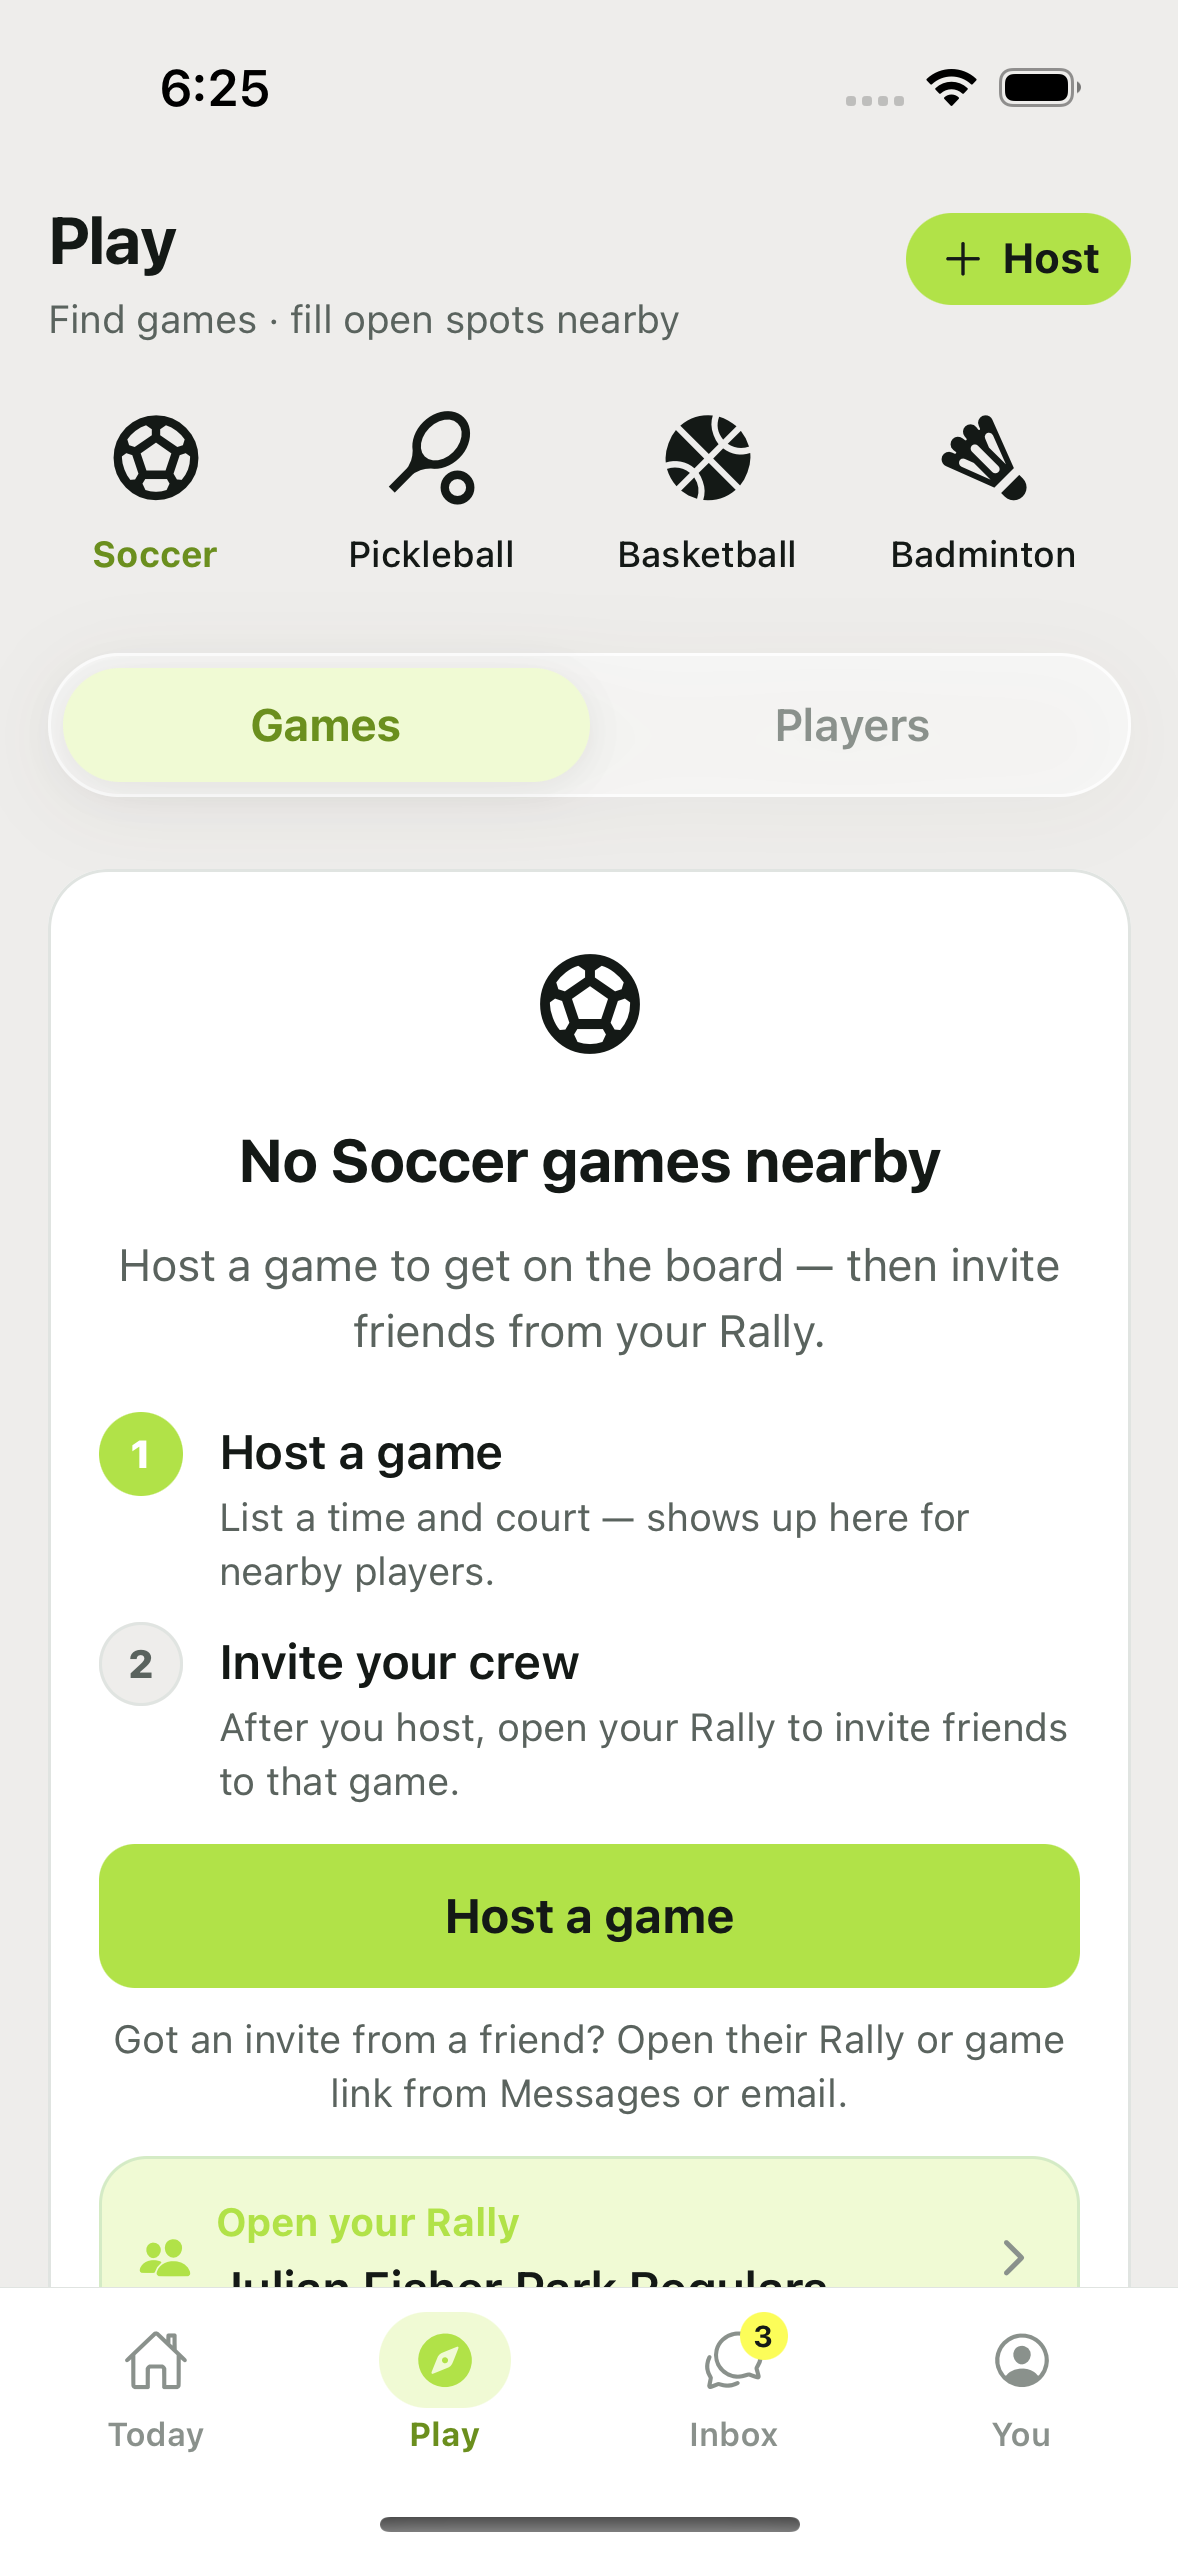
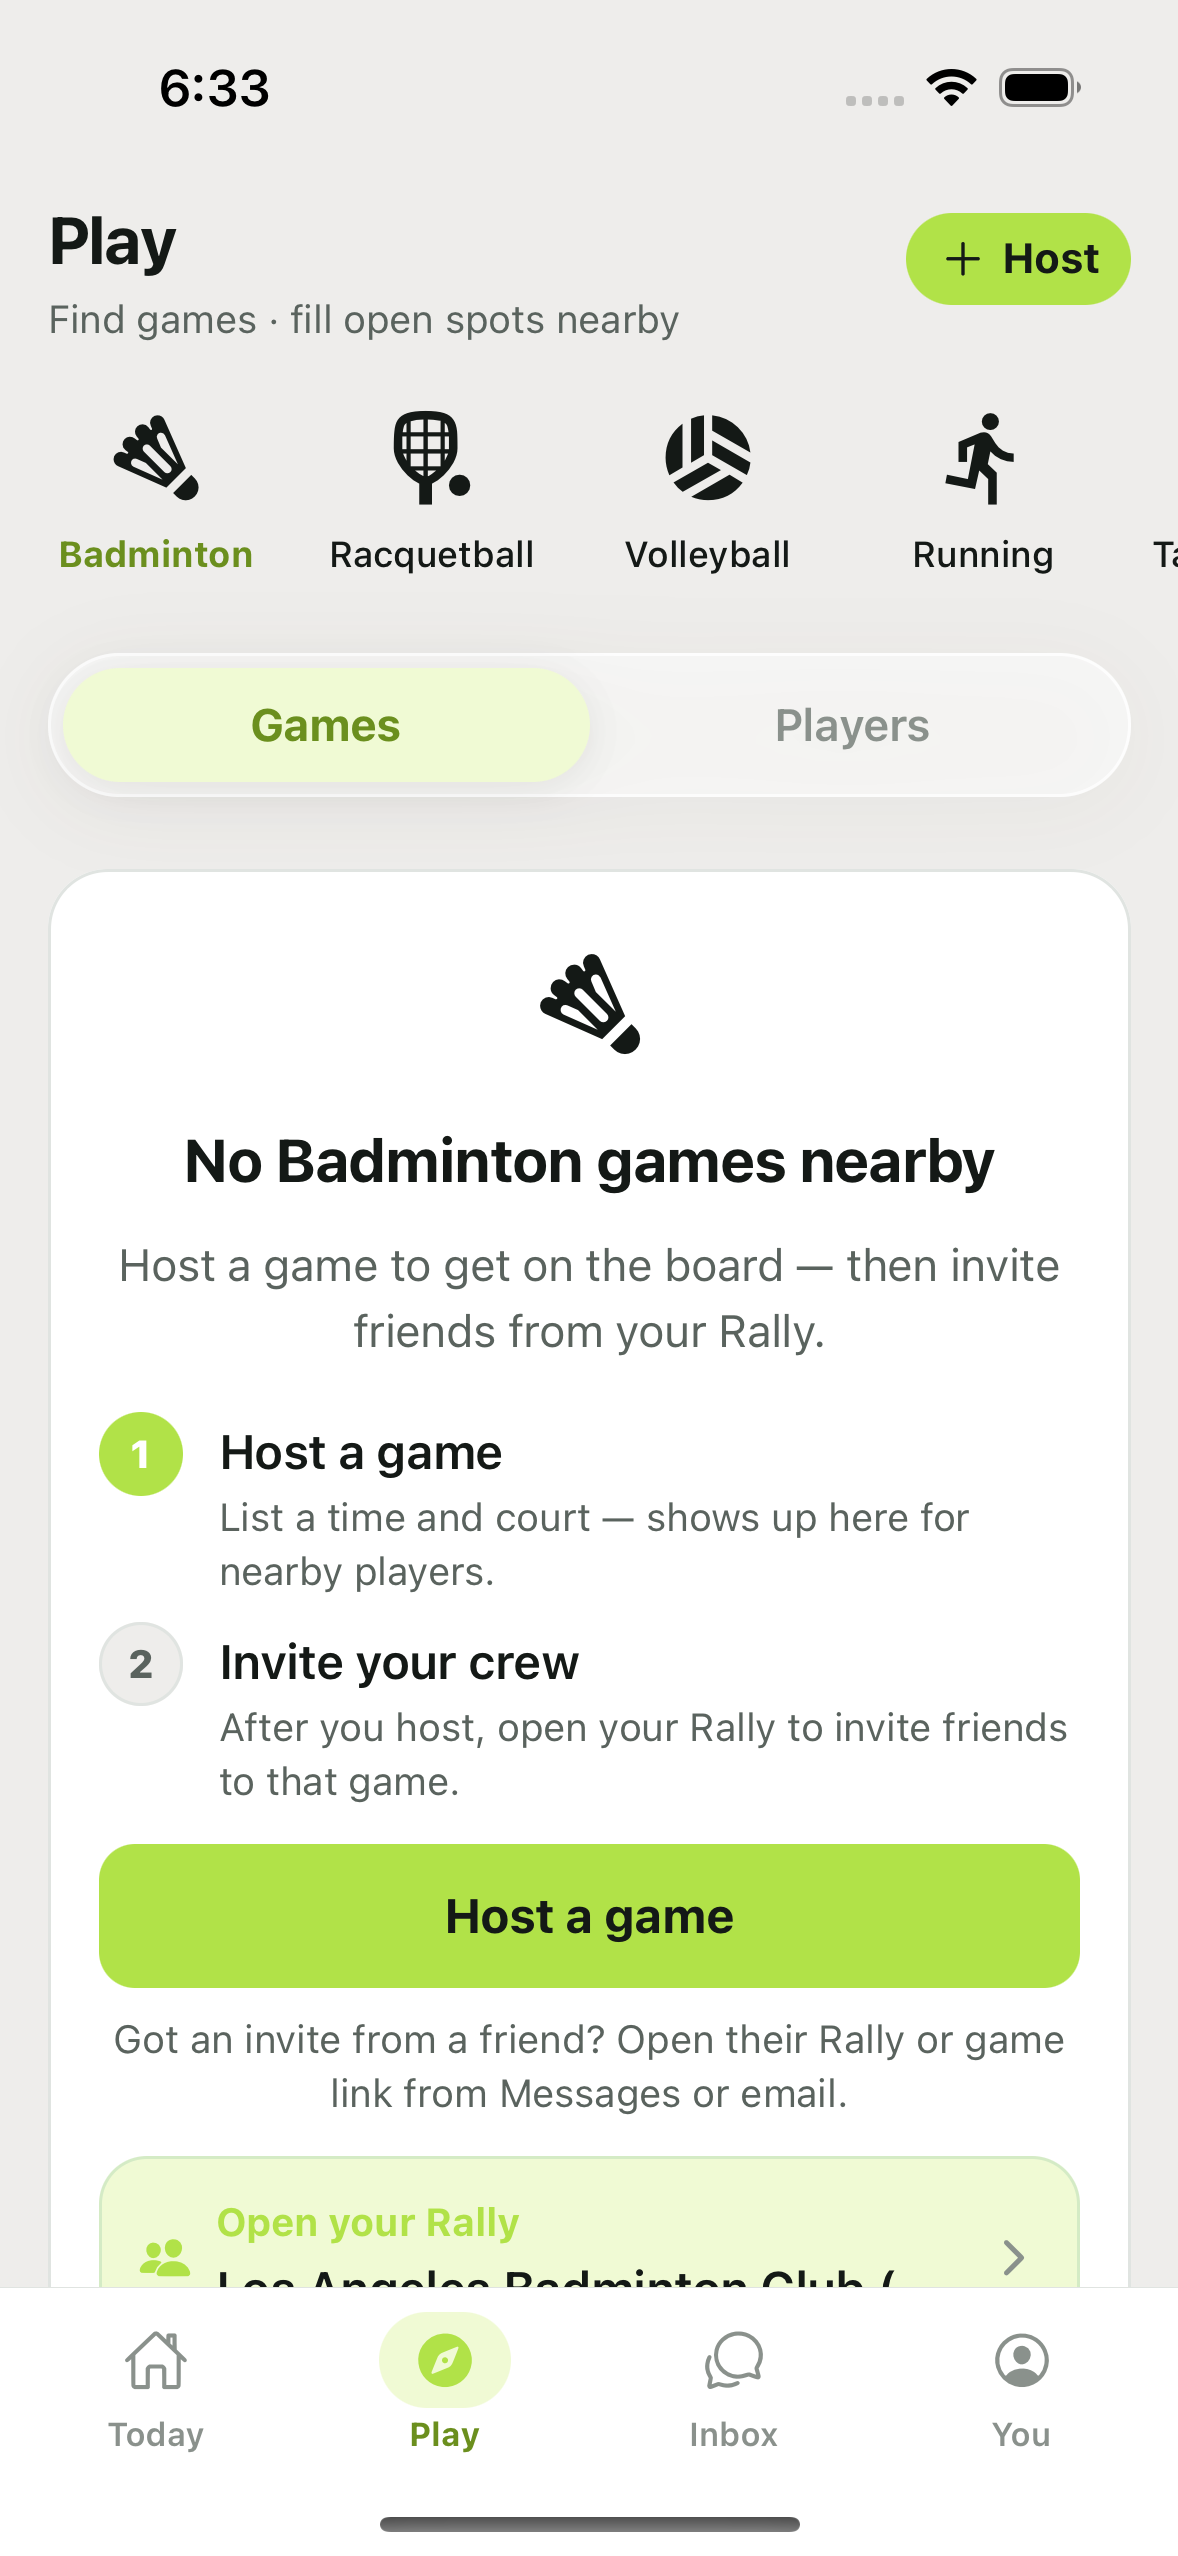
docs(validation): Layer 3 green — play-discover-matrix on fix/play-discover-ux-strip
Record validator reports and MRU strip screenshots for tier 3 UX proof.

diff --git a/docs/contracts/flow-play-screen.md b/docs/contracts/flow-play-screen.md
@@ -110,32 +110,37 @@ Third segment **Games | Players | Classes** is specified in [module-coach-parent
 
 ## Validator report
 
-> Run: 2026-06-22 ~13:05 PT · iOS Simulator · branch `fix/play-discover-builder`
+> Run: 2026-06-22 ~18:35 PT · iOS Simulator · branch `fix/play-discover-ux-strip` · `@kunyu` · queue `play-discover-matrix`
 
 | # | Checklist item | Pass | Notes |
 |---|----------------|------|-------|
 | 1 | Discover empty state | ✅ Pass | Running meetups title + invite hint on Games empty. |
-| 2 | Sport filter updates list | ✅ Pass | Basketball / Running / Badminton scoped. |
-| 3 | Players nearby segment | ✅ Pass | Section header + updated subtitle (no "next few hours"). |
+| 2 | Sport filter updates list | ✅ Pass | Basketball / Running / Badminton / Racquetball scoped. |
+| 3 | Players nearby segment | ✅ Pass | Section header + updated subtitle. |
 | 4 | Discover open / locked cards | N/T | No open activities in DB. |
 | 5 | Tap → ActivityDetail | N/T | Not re-run. |
 | 6 | Today quiet / rally CTA | N/T | Covered in prior baseline. |
 | 7 | GameCardShell presets | N/T | No open-game rows. |
-| 8 | No redbox | ✅ Pass | Play stable. |
-| 9 | Sport × Players Running | ✅ Pass | No cross-sport leak. |
-| 10 | Strip change refresh | ✅ Pass | |
-| 11 | Classes hidden R0 | N/T | See `module-role-surfaces` — no R0 login. |
+| 8 | No redbox | ✅ Pass | Play stable through MRU picks + kill/relaunch. |
+| 9 | Sport × Players Running | ✅ Pass | Running strip → *"No running players posting yet"* — no Badminton/Pickleball rows. |
+| 10 | Strip change refresh | ✅ Pass | List + empty title follow strip selection. |
+| 11 | Classes hidden R0 | N/T | See `module-role-surfaces` — skipped (`--from flow-play-screen`). |
 | 12 | Games empty Running title | ✅ Pass | *"No Running meetups nearby"*. |
-| 13 | Players subtitle vs data | ✅ Pass | Subtitle honest; stale row acceptable per H1 option B. |
+| 13 | Players subtitle vs data | ✅ Pass | Subtitle honest on Players segment. |
 | 14 | First-timer invite hint | ✅ Pass | Copy on Games empty state. |
-| 15 | Off-strip sport in strip | ✅ Pass | Racquetball in slot 3 (`off-strip-sport-in-strip.png`); preferred_sports restored on launch. |
-| 16 | Sport persistence | ✅ Pass | R0 `@playerr0pd1782160073` re-opened with Racquetball active. |
-| 17 | Empty-state hero icon | ✅ Pass | Plain glyph in 56px circle — no square tile (`discover-empty-icon-aligned.png`). |
+| 15 | Off-strip sport in strip | ✅ Pass | Superseded by tier 3 — MRU picks (Running, Racquetball, Table Tennis) all on strip. |
+| 16 | Sport persistence | ✅ Pass | Kill app → Play restores Running selected + MRU strip order. |
+| 17 | Empty-state hero icon | ✅ Pass | Running plain glyph centered (`discover-empty-icon-aligned.png`). |
+| 18 | **Personalized strip (B16)** | ✅ Pass | Up to 5 chips: Running · Badminton · Racquetball · Volleyball · Table Tennis + More. |
+| 19 | **More pick promotes (B17)** | ✅ Pass | More → Running → Racquetball — 3+ sports visible without reopening More (scroll strip). |
+| 20 | **MRU persistence (B18)** | ✅ Pass | `preferred_sports` MRU survives terminate + relaunch. |
+| 21 | **Attended sports (`@kunyu`)** | ✅ Pass | Badminton first when selected; strip not forced PB/BB catalog head. |
 
 ### Screenshots
 
-- Reuse `docs/contracts/screenshots/module-role-surfaces/` for matrix captures.
-- `flow-play-screen/off-strip-sport-in-strip.png`, `discover-empty-icon-aligned.png`
+- `flow-play-screen/personalized-strip-after-mru.png` — 5 MRU chips after multi More picks
+- `flow-play-screen/discover-empty-icon-aligned.png` — Running empty hero (regression)
+- Reuse `docs/contracts/screenshots/module-role-surfaces/` for prior matrix captures
 
 ## Product review — tier 2 picky (2026-06-22)
 

diff --git a/docs/contracts/module-sport-icon.md b/docs/contracts/module-sport-icon.md
@@ -77,11 +77,13 @@ All surfaces use `variant: 'plain'`. Size varies by column width.
 
 ## Validator report
 
-> Run: 2026-06-22 ~14:00 PT · iOS Simulator · `dev` · Racquetball via More
+> Run: 2026-06-22 ~18:35 PT · iOS Simulator · branch `fix/play-discover-ux-strip` · queue `play-discover-matrix`
 
 | # | Checklist item | Pass | Notes |
 |---|----------------|------|-------|
-| 1 | Discover empty hero aligned | ✅ Pass | 56px circle wrapper, plain `lg` glyph (`discover-empty-icon-aligned.png`). |
+| 1 | Discover empty hero aligned | ✅ Pass | Running empty — plain `lg` glyph, no square tile (`flow-play-screen/discover-empty-icon-aligned.png`). |
+| 2 | Preset unit tests | ✅ Pass | `__tests__/sportIconPresets.test.ts` 5/5. |
+| 3 | Strip filter icons | ✅ Pass | Plain md glyphs on MRU strip (no yellow ring). |
 
 ## Open issues
 